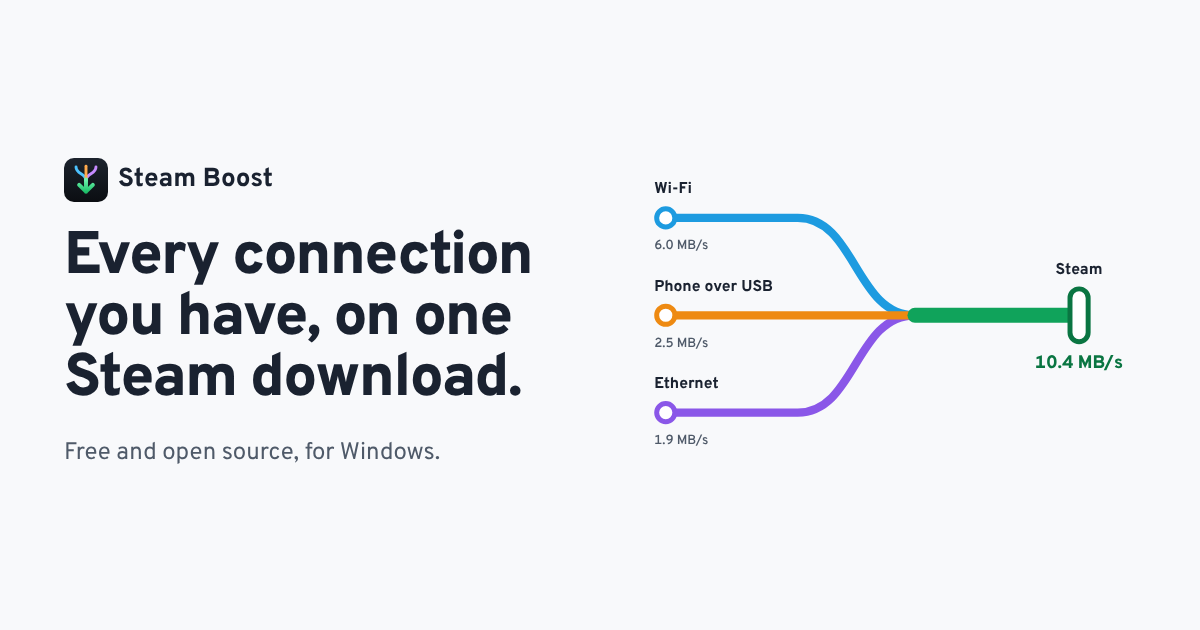
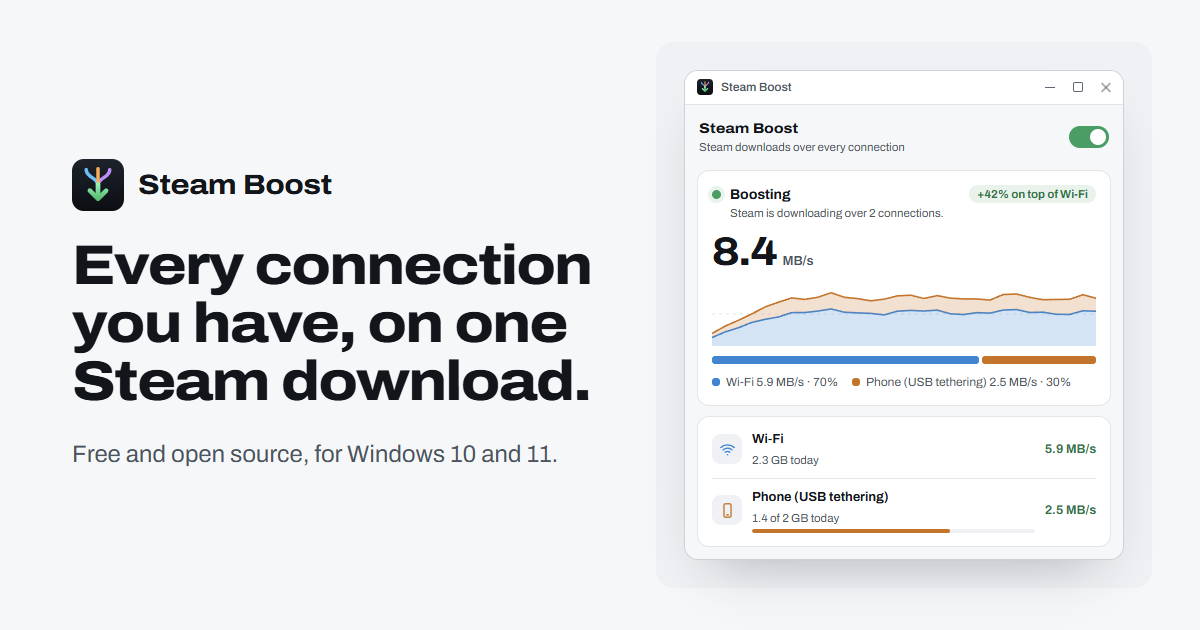
Show the redesigned app in the website's link preview
- The preview is the hero's headline beside its drawing of the app, in
  the site's own stylesheets, so it has the new look: Archivo, and Wi-Fi
  and a phone in their colours. Its source is build/og.html.
- The image's address carries ?v=2, so sites that cached the old preview
  fetch this one, and the alt text says what it now shows.

diff --git a/build/og.html b/build/og.html
@@ -1,0 +1,173 @@
+<!doctype html>
+<!-- The website's link preview, docs/assets/og.png: the hero's headline beside its drawing of
+     the app, in the site's own stylesheets. To update the image, open this file in Chrome or
+     Edge in the light theme, size the window to 1200×630 (DevTools' device toolbar), and
+     capture a screenshot. -->
+<html lang="en">
+  <head>
+    <meta charset="utf-8" />
+    <title>Steam Boost link preview</title>
+    <link rel="stylesheet" href="../docs/theme.css" />
+    <link rel="stylesheet" href="../docs/styles.css" />
+    <style>
+      html,
+      body {
+        width: 1200px;
+        height: 630px;
+        overflow: hidden;
+      }
+
+      .og {
+        display: grid;
+        grid-template-columns: minmax(0, 1fr) auto;
+        align-items: center;
+        gap: 48px;
+        height: 100%;
+        padding: 0 48px 0 72px;
+      }
+
+      .og-copy {
+        display: grid;
+        gap: 26px;
+      }
+
+      .og-brand {
+        display: flex;
+        align-items: center;
+        gap: 14px;
+        font-size: 28px;
+        font-weight: 750;
+        font-stretch: var(--wide);
+        letter-spacing: -0.015em;
+      }
+
+      .og h1 {
+        max-width: none;
+        font-size: 56px;
+      }
+
+      .og-sub {
+        color: var(--text-2);
+        font-size: 24px;
+        line-height: 1.4;
+      }
+
+      .og .hero-visual {
+        padding: 28px;
+      }
+
+      .og .window {
+        width: 440px;
+      }
+    </style>
+  </head>
+  <body>
+    <main class="og">
+      <div class="og-copy">
+        <div class="og-brand">
+          <img src="../docs/favicon.svg" width="52" height="52" alt="" />Steam Boost
+        </div>
+        <h1>Every connection you have, on one Steam download.</h1>
+        <p class="og-sub">Free and open source, for Windows 10 and 11.</p>
+      </div>
+      <figure class="hero-visual">
+        <div class="window" aria-hidden="true">
+          <div class="window-bar">
+            <span class="window-title">
+              <img src="../docs/favicon.svg" width="16" height="16" alt="" />Steam Boost
+            </span>
+            <span class="window-controls">
+              <span class="min"></span><span class="max"></span><span class="close"></span>
+            </span>
+          </div>
+          <div class="app">
+            <div class="app-top">
+              <div class="app-brand">
+                <b>Steam Boost</b><small>Steam downloads over every connection</small>
+              </div>
+              <span class="app-switch"></span>
+            </div>
+            <div class="app-card">
+              <div class="app-status">
+                <span class="app-dot"></span>
+                <div><b>Boosting</b><small>Steam is downloading over 2 connections.</small></div>
+                <span class="app-gain">+42% on top of Wi-Fi</span>
+              </div>
+              <div class="app-speed"><b>8.4</b><span>MB/s</span></div>
+              <svg class="app-chart" viewBox="0 0 300 84" preserveAspectRatio="none">
+                <line class="grid" x1="0" x2="300" y1="42" y2="42" />
+                <path
+                  class="band k-wifi"
+                  d="M0.0,72.9L10.3,65.5L20.7,60.0L31.0,53.1L41.4,49.0L51.7,46.0L62.1,40.2L72.4,40.1L82.8,38.1L93.1,35.4L103.4,39.7L113.8,40.5L124.1,41.2L134.5,43.2L144.8,38.3L155.2,37.3L165.5,38.1L175.9,36.9L186.2,41.7L196.6,42.7L206.9,40.2L217.2,40.8L227.6,36.8L237.9,36.2L248.3,40.0L258.6,39.6L269.0,42.4L279.3,42.6L289.7,37.8L300.0,38.3L300.0,84.0L0.0,84.0Z"
+                />
+                <path
+                  class="edge k-wifi"
+                  d="M0.0,72.9L10.3,65.5L20.7,60.0L31.0,53.1L41.4,49.0L51.7,46.0L62.1,40.2L72.4,40.1L82.8,38.1L93.1,35.4L103.4,39.7L113.8,40.5L124.1,41.2L134.5,43.2L144.8,38.3L155.2,37.3L165.5,38.1L175.9,36.9L186.2,41.7L196.6,42.7L206.9,40.2L217.2,40.8L227.6,36.8L237.9,36.2L248.3,40.0L258.6,39.6L269.0,42.4L279.3,42.6L289.7,37.8L300.0,38.3"
+                />
+                <path
+                  class="band k-phone"
+                  d="M0.0,67.5L10.3,57.9L20.7,50.2L31.0,42.0L41.4,32.8L51.7,26.6L62.1,20.9L72.4,22.8L82.8,20.0L93.1,14.1L103.4,20.1L113.8,21.8L124.1,24.7L134.5,22.5L144.8,18.2L155.2,17.3L165.5,21.6L175.9,17.9L186.2,21.2L196.6,22.2L206.9,22.3L217.2,23.7L227.6,16.4L237.9,15.8L248.3,20.2L258.6,23.3L269.0,22.9L279.3,22.7L289.7,16.7L300.0,21.3L300.0,38.3L289.7,37.8L279.3,42.6L269.0,42.4L258.6,39.6L248.3,40.0L237.9,36.2L227.6,36.8L217.2,40.8L206.9,40.2L196.6,42.7L186.2,41.7L175.9,36.9L165.5,38.1L155.2,37.3L144.8,38.3L134.5,43.2L124.1,41.2L113.8,40.5L103.4,39.7L93.1,35.4L82.8,38.1L72.4,40.1L62.1,40.2L51.7,46.0L41.4,49.0L31.0,53.1L20.7,60.0L10.3,65.5L0.0,72.9Z"
+                />
+                <path
+                  class="edge k-phone"
+                  d="M0.0,67.5L10.3,57.9L20.7,50.2L31.0,42.0L41.4,32.8L51.7,26.6L62.1,20.9L72.4,22.8L82.8,20.0L93.1,14.1L103.4,20.1L113.8,21.8L124.1,24.7L134.5,22.5L144.8,18.2L155.2,17.3L165.5,21.6L175.9,17.9L186.2,21.2L196.6,22.2L206.9,22.3L217.2,23.7L227.6,16.4L237.9,15.8L248.3,20.2L258.6,23.3L269.0,22.9L279.3,22.7L289.7,16.7L300.0,21.3"
+                />
+              </svg>
+              <div class="app-share">
+                <span class="k-wifi" style="flex: 70"></span>
+                <span class="k-phone" style="flex: 30"></span>
+              </div>
+              <div class="app-legend">
+                <span class="k-wifi"><i></i>Wi-Fi 5.9 MB/s · 70%</span>
+                <span class="k-phone"><i></i>Phone (USB tethering) 2.5 MB/s · 30%</span>
+              </div>
+            </div>
+            <div class="app-card app-list">
+              <div class="app-row">
+                <span class="app-icon k-wifi">
+                  <svg
+                    width="17"
+                    height="17"
+                    viewBox="0 0 24 24"
+                    fill="none"
+                    stroke="currentColor"
+                    stroke-width="1.9"
+                    stroke-linecap="round"
+                  >
+                    <path d="M2.5 9.2a14 14 0 0 1 19 0" />
+                    <path d="M5.6 12.6a9.5 9.5 0 0 1 12.8 0" />
+                    <path d="M8.8 15.9a5 5 0 0 1 6.4 0" />
+                    <circle cx="12" cy="19.2" r="0.9" fill="currentColor" stroke="none" />
+                  </svg>
+                </span>
+                <div class="app-row-main"><b>Wi-Fi</b><small>2.3 GB today</small></div>
+                <span class="app-live">5.9 MB/s</span>
+              </div>
+              <div class="app-row">
+                <span class="app-icon k-phone">
+                  <svg
+                    width="17"
+                    height="17"
+                    viewBox="0 0 24 24"
+                    fill="none"
+                    stroke="currentColor"
+                    stroke-width="1.9"
+                    stroke-linecap="round"
+                  >
+                    <rect x="7" y="2.5" width="10" height="19" rx="2.2" />
+                    <path d="M11 18.2h2" />
+                  </svg>
+                </span>
+                <div class="app-row-main">
+                  <b>Phone (USB tethering)</b><small>1.4 of 2 GB today</small>
+                  <span class="app-meter"><span style="width: 70%"></span></span>
+                </div>
+                <span class="app-live">2.5 MB/s</span>
+              </div>
+            </div>
+          </div>
+        </div>
+      </figure>
+    </main>
+  </body>
+</html>

diff --git a/docs/index.html b/docs/index.html
@@ -22,12 +22,14 @@
       property="og:description"
       content="Steam downloads over your Wi-Fi, Ethernet and phone at once. Free and open source."
     />
-    <meta property="og:image" content="https://abeey04.github.io/steam-boost/assets/og.png" />
+    <!-- Rendered from build/og.html. When it changes, bump ?v= so sites that cache link
+         previews fetch it again. -->
+    <meta property="og:image" content="https://abeey04.github.io/steam-boost/assets/og.png?v=2" />
     <meta property="og:image:width" content="1200" />
     <meta property="og:image:height" content="630" />
     <meta
       property="og:image:alt"
-      content="Steam Boost: Wi-Fi, a phone and Ethernet joining into one Steam download"
+      content="Steam Boost's window downloading over Wi-Fi and a phone at 8.4 MB/s together, beside the words: Every connection you have, on one Steam download."
     />
     <meta name="twitter:card" content="summary_large_image" />
     <meta name="theme-color" content="#f6f7f9" media="(prefers-color-scheme: light)" />

diff --git a/README.md b/README.md
@@ -111,7 +111,7 @@ Commit `package-lock.json` after the first `npm install`, so every build gets th
 | `src/cli/`                    | `steam-boost-cli`: the engine without the app                                                                                                             |
 | `test/`                       | `node --test` suites; `fixtures.ts` is the mock CDN and the Steam-like client                                                                             |
 | `docs/`                       | The website, served by GitHub Pages                                                                                                                       |
-| `build/`, `resources/`        | Icons (rendered from `build/icon.svg`)                                                                                                                    |
+| `build/`, `resources/`        | Icons (rendered from `build/icon.svg`), and the website's link preview (`build/og.html`)                                                                  |
 
 A development build reads two settings from its environment, which a packaged build ignores:
 `STEAM_BOOST_TEST_NETWORKS="Wi-Fi=127.0.0.2=wifi,Phone=127.0.0.3=usb"` replaces the computer's
